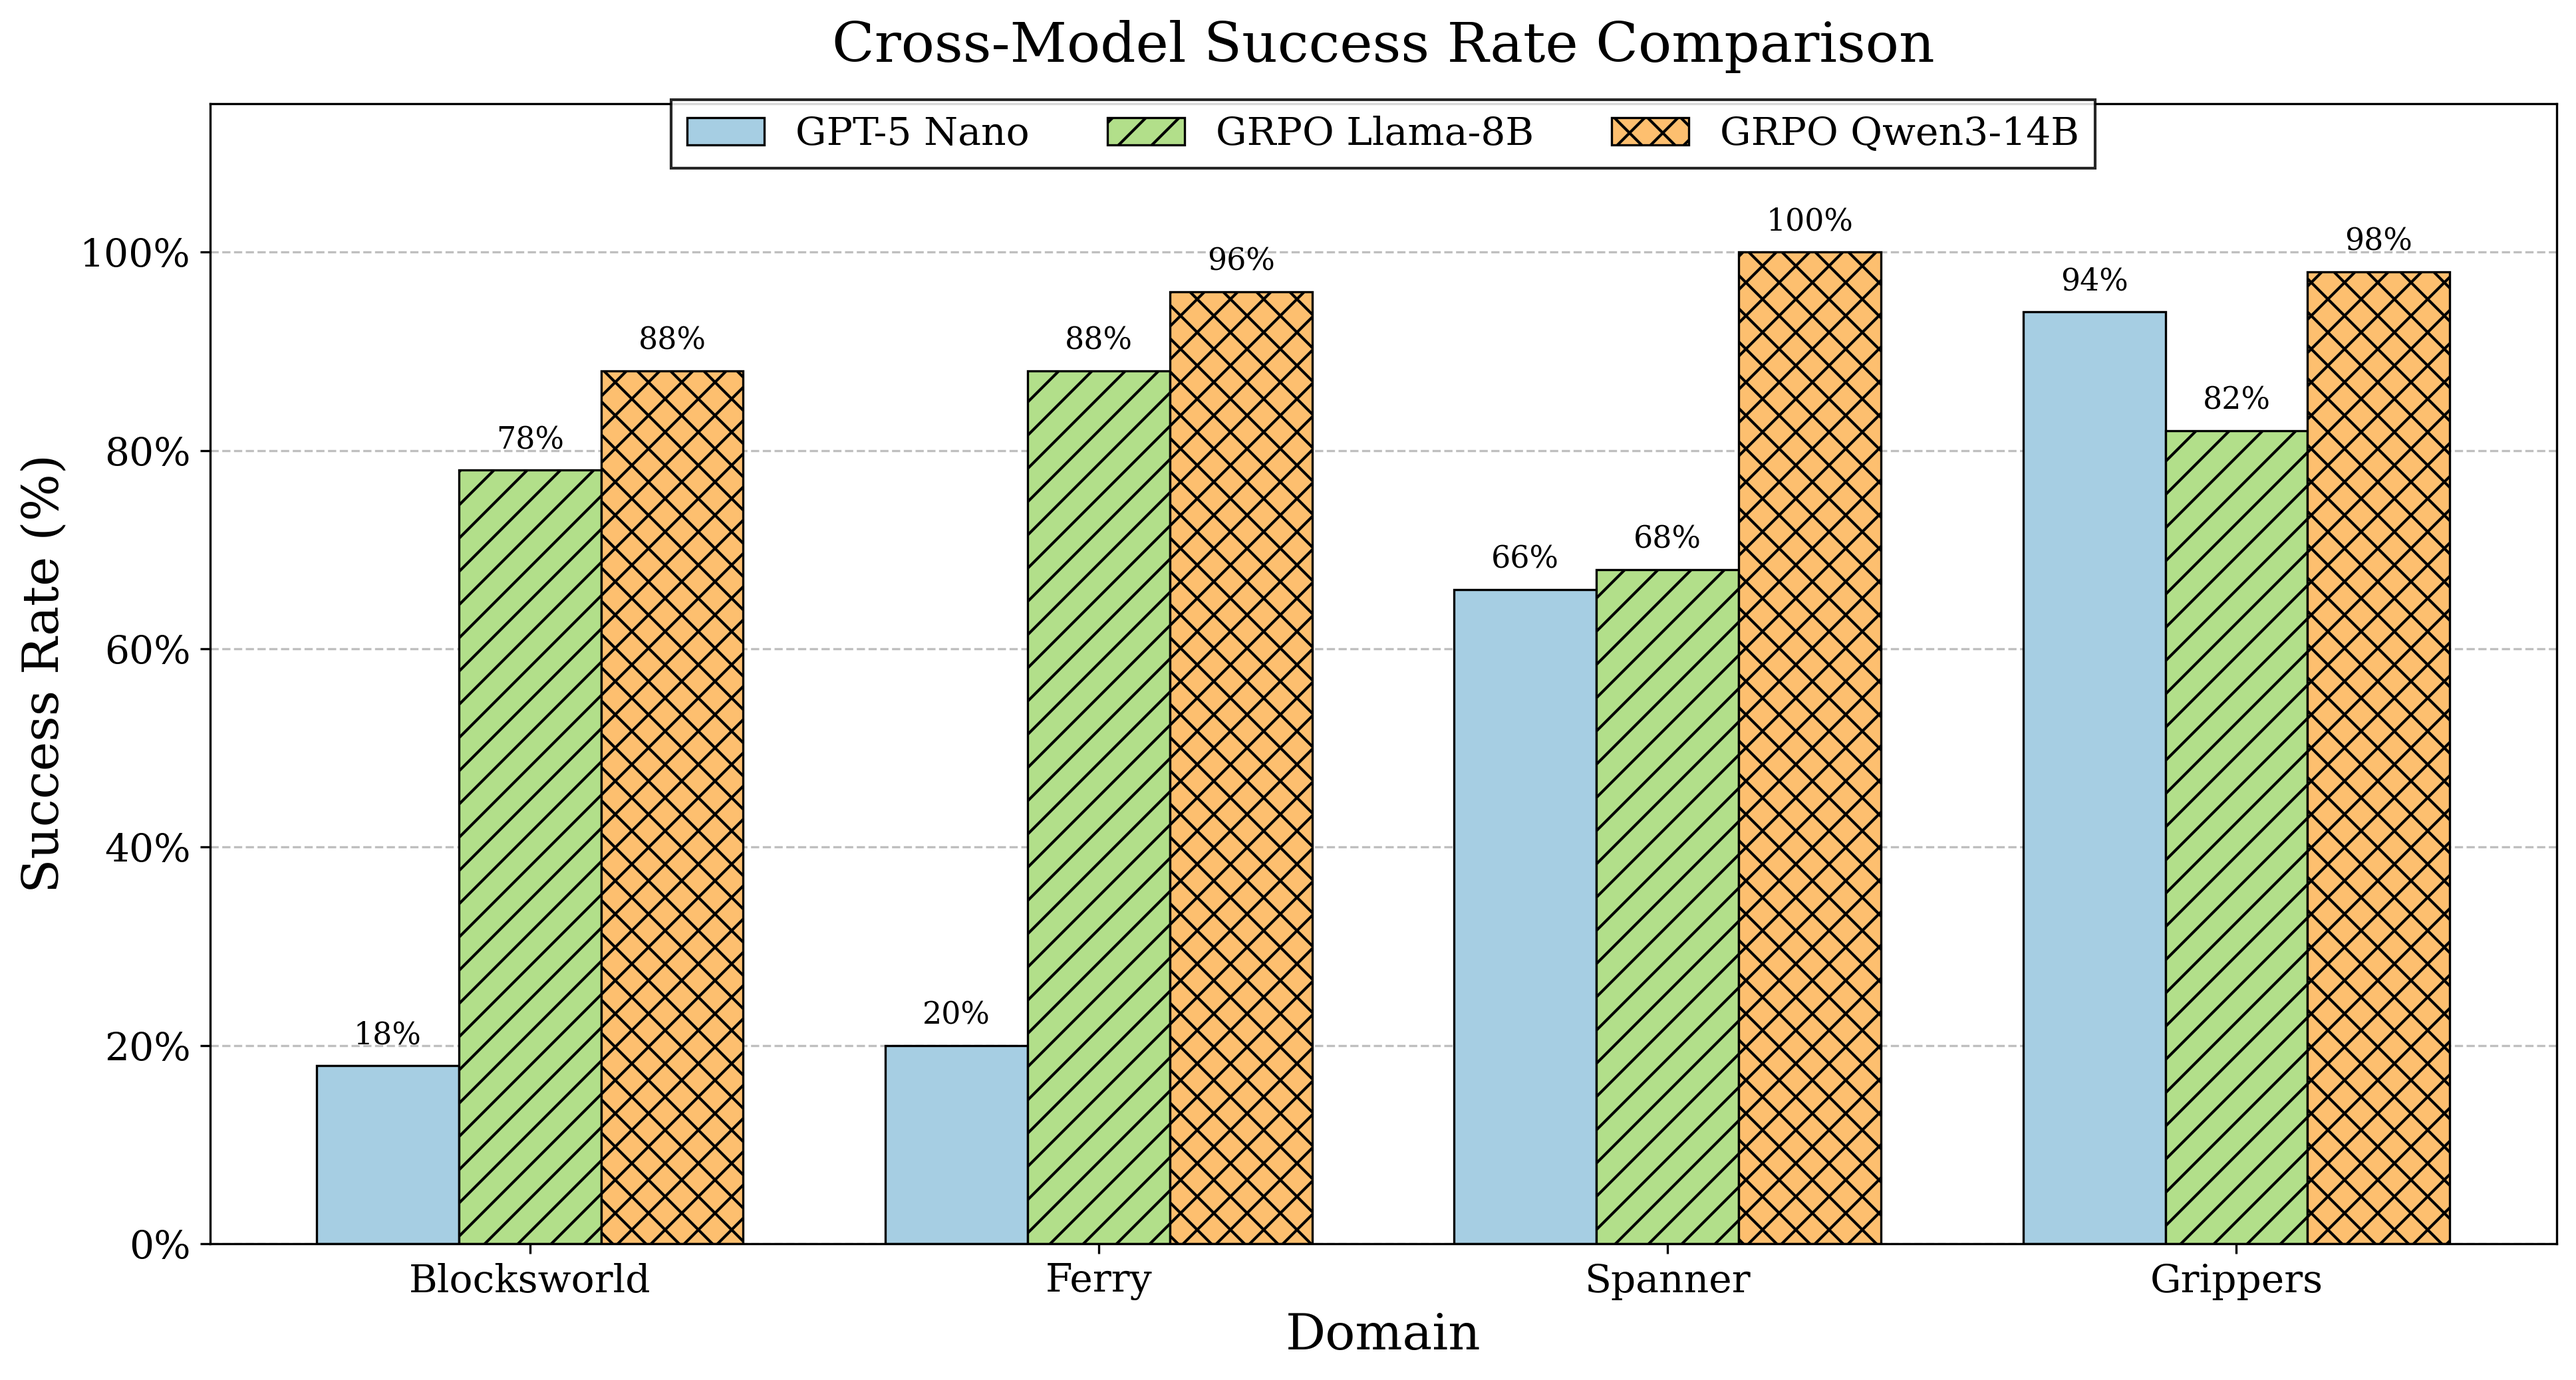
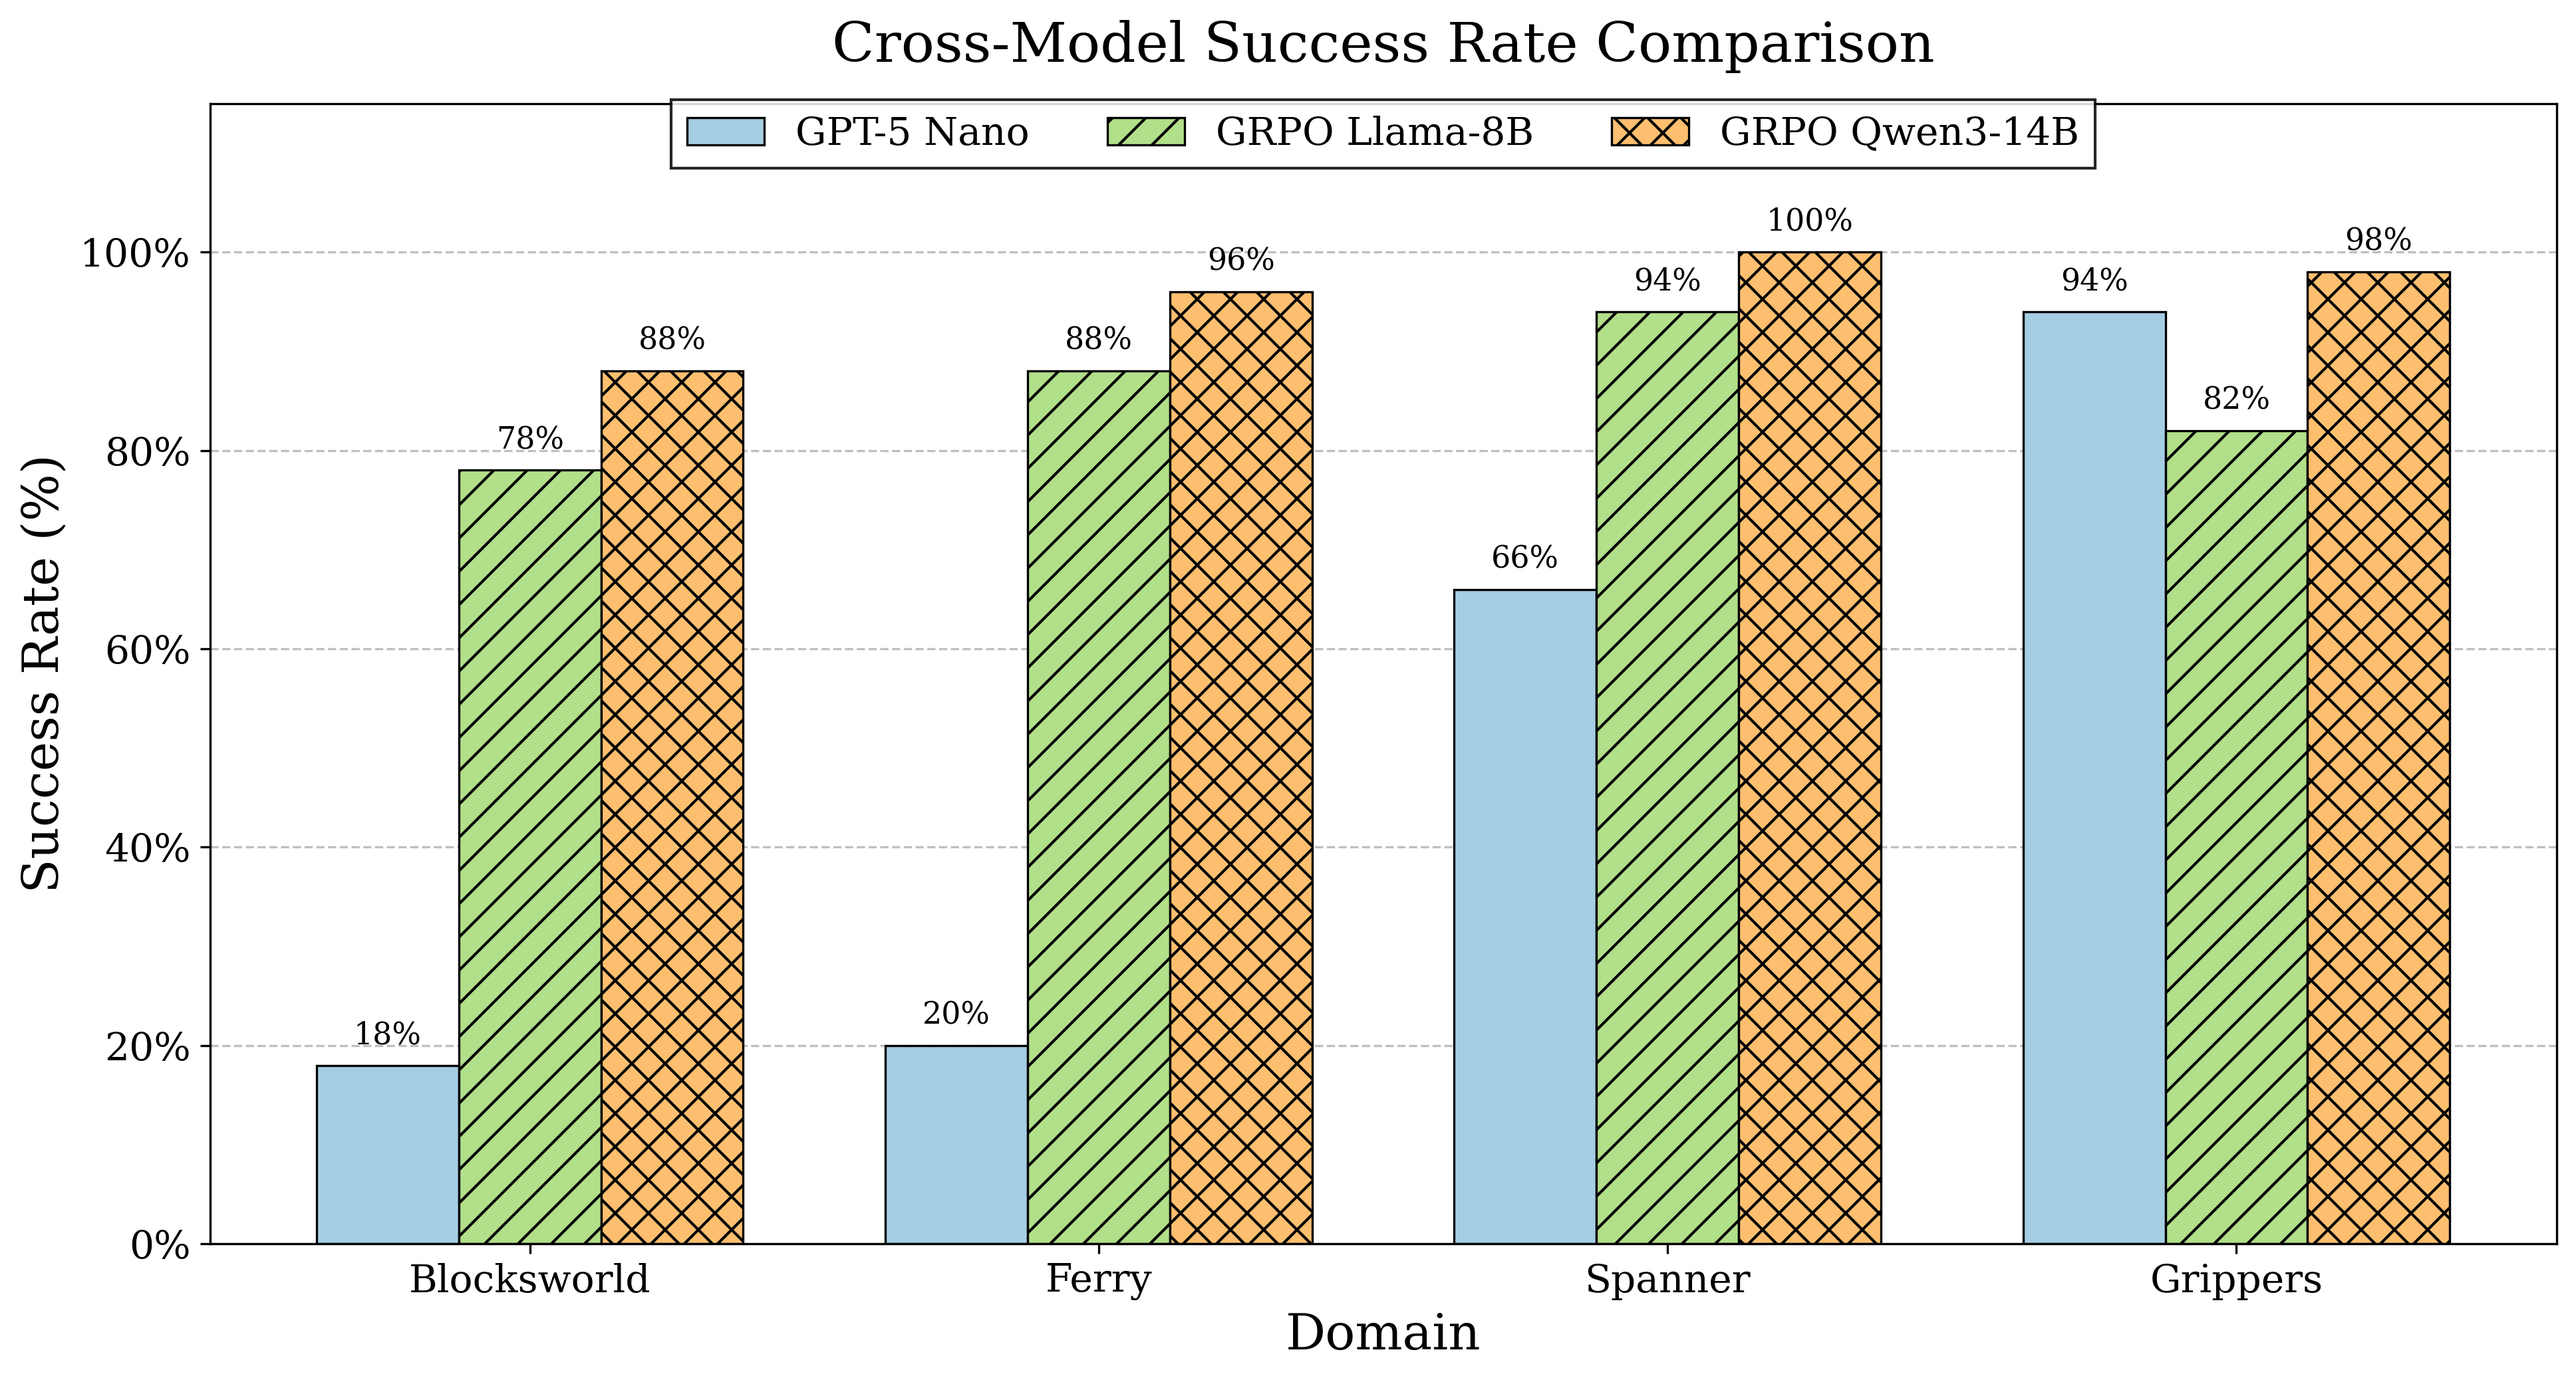
Update paper with corrected spanner results for GRPO Llama-8B
Spanner success rate was stale (68%) in the text and figure. Updated to
match corrected metrics.json (94%). Text range changed from 68--88% to
78--94% and cross-model figure regenerated.

Changed region(s): [[0.5936, 0.185, 0.6873, 0.4316]]

diff --git a/paper/arxiv/latex/sections/5_experiments.tex b/paper/arxiv/latex/sections/5_experiments.tex
@@ -2,7 +2,7 @@
 In this section, we empirically evaluate the proposed framework along four dimensions:
 (i)~its runtime behavior compared to a classical search-based planner,
 (ii)~its cross-problem safety generalization within the same domain,
-(iii)~its cross-domain safety generalization to unseen domains, and
+(iii)~its cross-domain safety generalization to multiple domains, and
 (iv)~its effectiveness in a real-world robotic deployment on a physical robot arm.
 
 \subsection{Experimental Setup}\label{subsec:experimental-setup}
@@ -10,14 +10,14 @@ In this section, we empirically evaluate the proposed framework along four dimen
 We first describe the datasets, models, and training environment used in our experiments.
 
 \noindent\textbf{Dataset construction.}
-As introduced in Section~\ref{subsec:dataset}, we select four domains from the PDDL2 problem generators~\cite{seipp-et-al-zenodo2022}: \emph{Blocksworld}, \emph{Ferry}, \emph{Grippers}, and \emph{Spanner}.
+As introduced in Section~\ref{subsec:dataset}, we select four domains from the PDDL2 problem generators~\cite{seipp2022pddl}: \emph{Blocksworld}, \emph{Ferry}, \emph{Grippers}, and \emph{Spanner}.
 For each domain, we generate $1{,}000$ planning problems with parameters ranging from simple to complex (e.g., different numbers of blocks, objects, or locations), of which $500$ are used for SFT and $500$ for GRPO training.
 All problems are solved by the temporal planner OPTIC~\cite{benton2012temporal} and validated by VAL~\cite{howey2004val} to ensure correctness.
 Importantly, these problems cannot be solved by the solutions of the corresponding PDDL2 benchmark problems without incorporating the additional safety constraints, which highlights the need for a safety-aware planner.
 The test set consists of $50$ problems per domain.
 
 \noindent\textbf{Model selection and training environment.}
-We instantiate our framework with open-source LLMs available through the Unsloth library~\cite{unsloth} on Hugging Face~\cite{wolf-etal-2020-transformers}.
+We instantiate our framework with open-source LLMs available through the Unsloth library~\cite{unsloth} on Hugging Face~\cite{wolf2020transformers}.
 Specifically, we consider three models: \textbf{Mistral-7B}\footnote{\texttt{unsloth/mistral-7b-instruct-v0.3-bnb-4bit}}, \textbf{Llama-8B}\footnote{\texttt{unsloth/Meta-Llama-3.1-8B-Instruct-bnb-4bit}}, and \textbf{Qwen3-14B}\footnote{\texttt{unsloth/Qwen3-14B-unsloth-bnb-4bit}}.
 All models use quantized 4-bit variants throughout our experiments unless otherwise specified.
 Training details, hyperparameters, reward function, and curriculum learning settings are provided in Appendix~\ref{app:training-details} and~\ref{app:reward-curriculum}.
@@ -44,7 +44,7 @@ We compare the runtime and success rates of GPT-5.2~\cite{openai2025gpt5} (LLM-b
   \label{fig:benchmark-comparison}
 \end{figure}
 
-As shown in Figure~\ref{fig:benchmark-comparison}, GPT-5.2 achieves 100\% success in both domains with stable runtime ($\sim$102s), while OPTIC's success rate drops significantly (39.6\% Blocksworld, 64.6\% Grippers) and runtime increases dramatically as problem complexity grows. These results demonstrate that LLM-based solvers effectively address the scalability limitations of classical planners in safety-constrained planning.
+As shown in Figure~\ref{fig:benchmark-comparison}, GPT-5.2 achieves 100\% success in both domains with stable runtime ($\sim$102s), while OPTIC's success rate drops significantly (39.6\% Blocksworld, 64.6\% Grippers) and runtime increases dramatically as problem complexity grows. These results suggest that LLM-based solvers can alleviate scalability bottlenecks of classical planners.
 
 \begin{figure}[h]
   \centering
@@ -126,7 +126,7 @@ As shown in Figure~\ref{fig:benchmark-comparison}, GPT-5.2 achieves 100\% succes
 \end{table*}
 
 \subsection{Cross-Problem Safety Generalizability}
-We evaluate the cross-problem safety generalization of the proposed framework, i.e., whether a model trained on planning problems within a given domain can solve previously unseen problems with new safety constraints in the \emph{same} domain.
+We evaluate the cross-problem safety generalization of the proposed framework, i.e., whether a model trained on planning problems within a given domain can solve previously unseen problems with safety constraints in the \emph{same} domain.
 
 We use the Blocksworld domain as a representative example and fine-tune Mistral-7B through our two-stage pipeline (SFT followed by GRPO).
 Figure~\ref{fig:model-comparison} compares the error type distribution across three stages: Pretrained, SFT, and GRPO.
@@ -138,8 +138,8 @@ We summarize the key observations as follows:
   This indicates that both training stages progressively internalize domain-specific action semantics.
 
   \item \textbf{Progressive improvement in safety compliance.}
-  Safety constraint violations decrease from 2\% (Pretrained) to 10\% (SFT) to 4\% (GRPO).
-  The slight increase after SFT reflects a trade-off: as the model learns to generate more executable plans, it initially makes more safety errors. GRPO then effectively reduces these violations through reward-guided optimization.
+  Safety constraint violations decrease from 10\% (SFT) to 4\% (GRPO).
+  Note that safety violations are computed only for parsable plans that can be executed by the validator up to the first failure; the low 2\% rate of the Pretrained model does not reflect genuine safety awareness, as most of its plans fail before reaching the safety-checking stage due to format or precondition errors.
 
   \item \textbf{Substantial success rate improvement.}
   The success rate improves dramatically: from 0\% (Pretrained) to 66\% (SFT) to 82\% (GRPO).
@@ -176,28 +176,26 @@ The combination of curriculum learning and verifiable rewards allows models to e
 \begin{figure}[t]
   \centering
   \includegraphics[width=\linewidth]{figures/cross_model_success_rate.png}
-  \caption{Cross-model success rate comparison across four domains. GRPO-trained open-source models (Qwen3-14B and Llama-8B) consistently outperform the proprietary GPT-5 Nano baseline on Blocksworld, Ferry, and Spanner, while GPT-5 Nano achieves strong performance on Grippers.}
+  \caption{Cross-model success rate comparison across four domains.}
   \label{fig:cross-model-success}
 \end{figure}
 
-To further contextualize these results, we compare our GRPO-trained models against GPT-5 Nano~\cite{openai2025gpt5}, a proprietary model evaluated zero-shot.
+To further contextualize these results, we compare our GRPO-trained models against GPT-5 Nano\footnote{\texttt{gpt-5-nano-2025-08-07}, evaluated via the OpenAI API with the same prompt template used for our models in a zero-shot setting.}~\cite{openai2025gpt5}.
 Figure~\ref{fig:cross-model-success} presents the success rates across four domains.
-GRPO Qwen3-14B achieves the highest success across all domains (88--100\%), followed by GRPO Llama-8B (68--88\%).
-In contrast, GPT-5 Nano achieves only 18\% and 20\% on Blocksworld and Ferry, respectively, despite strong performance on Grippers (94\%).
-This gap is primarily attributable to safety constraint violations: GPT-5 Nano produces plans that reach the goal but frequently violate PDDL3 constraints, whereas GRPO-trained models learn to satisfy both goals and safety requirements simultaneously.
-These results demonstrate that targeted fine-tuning with verifiable safety rewards enables smaller open-source models to surpass much larger proprietary models on safety-constrained planning tasks.
+GRPO Qwen3-14B achieves the highest success across all domains (88--100\%), followed by GRPO Llama-8B (78--94\%).
+In contrast, GPT-5 Nano achieves only 18\% and 20\% on Blocksworld and Ferry, respectively, despite strong performance on Grippers (94\%). These results demonstrate that targeted fine-tuning with verifiable safety rewards enables smaller open-source models to surpass much larger proprietary models on safety-constrained planning tasks.
 
 \subsection{Input Format Comparison: Symbolic vs Natural Language vs JSON}
 
 To evaluate the robustness of our framework to different input representations, we compare model performance across three input formats: symbolic PDDL3, natural language (NL), and JSON.
 For NL, we convert PDDL3 specifications into human-readable prompts; for JSON, we use a structured key-value representation that preserves the semantic content while providing a machine-friendly format.
 
-Table~\ref{tab:input_format_comparison} reports the results across four domains (excluding Delivery due to its inherent difficulty).
-Although the model is trained exclusively on PDDL3 input, it achieves strong performance on both NL and JSON formats without any format errors.
+Table~\ref{tab:input_format_comparison} reports the results across four domains.
+Although the model is trained exclusively on PDDL3 input, it achieves strong performance on both NL and JSON formats with near-zero format errors.
 JSON achieves 92.5\% average success rate across the four standard domains, matching PDDL3 in Ferry (96.0\%) and Grippers (98.0\%).
 NL also performs well with 84.0\% average success, demonstrating that the model can interpret human-readable problem descriptions.
-Notably, all three formats produce zero format errors, indicating that the learned planning knowledge transfers effectively to unseen input representations.
-These results confirm that our GRPO-trained model generalizes beyond its training distribution, enabling flexible deployment with different input interfaces.
+Notably, format errors remain negligible across all three formats (0.0\% for PDDL3 and JSON, 0.5\% for NL), indicating that the learned planning knowledge transfers effectively to unseen input representations.
+These results confirm that our GRPO-trained model generalizes beyond its input representation, enabling flexible deployment with different input interfaces.
 
 \subsection{Integration with LLM Agentic Workflows}
 
@@ -206,30 +204,28 @@ We evaluate this by combining our GRPO-trained model with SafePilot, a verificat
 
 \begin{table}[t]
 \centering
-\caption{Comparison of Planning Success and Safety Violation Rates (\%).}
+\caption{Comparison of Planning Success Rates and Retry Counts.}
 \label{tab:safepilot_comparison}
 \resizebox{\columnwidth}{!}{%
-\begin{tabular}{lcccccc}
+\begin{tabular}{lccccc}
 \toprule
-\textbf{Model} & \textbf{Block} & \textbf{Ferry} & \textbf{Gripp} & \textbf{Spann} & \textbf{Deliv} & \textbf{Avg.} \\
+\textbf{Model} & \textbf{Blocksworld} & \textbf{Ferry} & \textbf{Grippers} & \textbf{Spanner} & \textbf{Avg.} \\
 \midrule
-\multicolumn{7}{l}{\textit{Success Rate (\%) $\uparrow$}} \\
-Pretrained & 50.0 & 0.0 & 50.0 & 0.0 & 50.0 & \textbf{30.0} \\
-GRPO & 88.0 & 96.0 & 98.0 & 100.0 & 2.0 & \textbf{76.8} \\
-GRPO+SP & 94.0 & 98.0 & 98.0 & 100.0 & 6.0 & \textbf{79.2} \\
+\multicolumn{6}{l}{\textit{Success Rate (\%) $\uparrow$}} \\
+Pretrained & 50.0 & 0.0 & 50.0 & 0.0 & \textbf{25.0} \\
+GRPO & 88.0 & 96.0 & 98.0 & 100.0 & \textbf{95.5} \\
+GRPO+SP & 94.0 & 98.0 & 98.0 & 100.0 & \textbf{97.5} \\
 \midrule
-\multicolumn{7}{l}{\textit{Safety Violation (\%) $\downarrow$}} \\
-Pretrained & 0.0 & 0.0 & 0.0 & 0.0 & 50.0 & \textbf{10.0} \\
-GRPO & 0.0 & 0.0 & 2.0 & 0.0 & 22.0 & \textbf{4.8} \\
-GRPO+SP & 0.0 & 0.0 & 2.0 & 0.0 & 18.0 & \textbf{4.0} \\
-\midrule
-\multicolumn{7}{l}{\textit{Avg. Retries $\downarrow$}} \\
-Pretrained & 3.50 & 5.00 & 3.00 & 5.00 & 4.50 & \textbf{4.20} \\
-GRPO & 1.00 & 1.00 & 1.00 & 1.00 & 1.00 & \textbf{1.00} \\
-GRPO+SP & 1.36 & 1.12 & 1.14 & 1.00 & 4.76 & \textbf{1.88} \\
+\multicolumn{6}{l}{\textit{Avg. Retries $\downarrow$}} \\
+Pretrained & 3.50 & 5.00 & 3.00 & 5.00 & \textbf{4.13} \\
+GRPO & 1.00 & 1.00 & 1.00 & 1.00 & \textbf{1.00} \\
+GRPO+SP & 1.36 & 1.12 & 1.14 & 1.00 & \textbf{1.16} \\
 \bottomrule
 \end{tabular}%
 }
+\vspace{0.3em}
+
+\footnotesize{SP = SafePilot, a verification-guided iterative refinement framework.}
 \end{table}
 
 Table~\ref{tab:safepilot_comparison} presents the results, where the Retry column indicates the average number of generation attempts required per problem.
